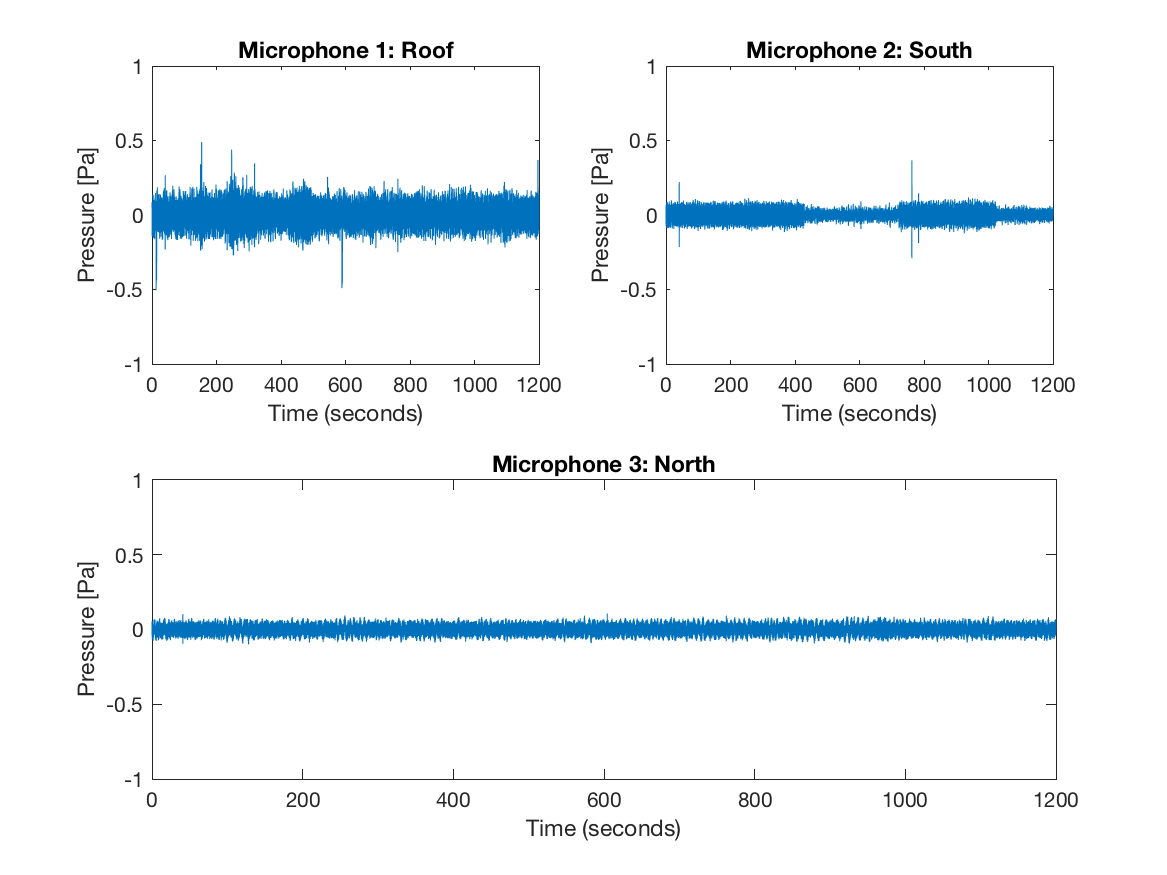
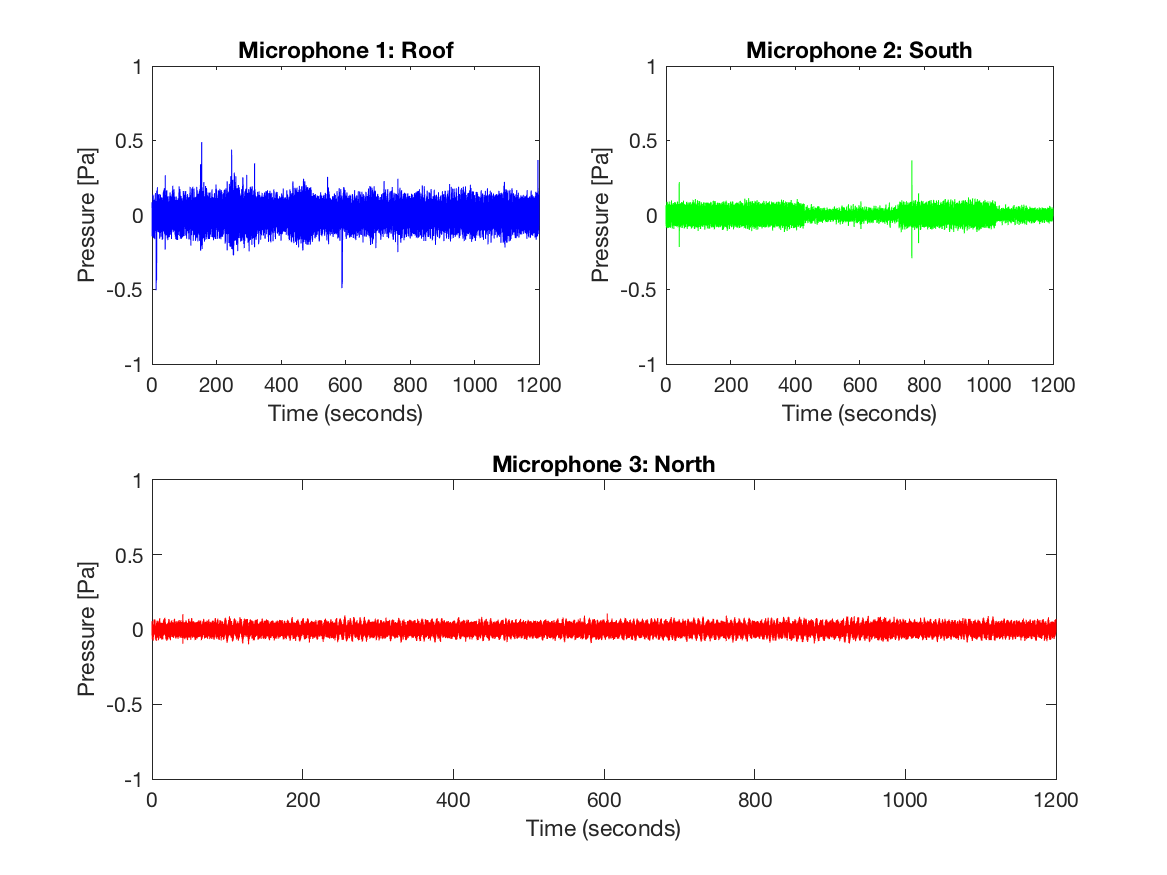
Make the raw data plots the same colors as spectra

Changed region(s): [[0.1234, 0.7097, 0.9254, 0.7406], [0.1234, 0.1851, 0.4627, 0.3086], [0.5553, 0.216, 0.8946, 0.2777]]

diff --git a/Code/PlottingClass.m b/Code/PlottingClass.m
@@ -135,21 +135,21 @@ classdef PlottingClass
         set(l, 'Visible', 'off');
 
         subplot(2,2,1);
-        plot(time,obj.R1)
+        plot(time,obj.R1, '-b')
         title('Microphone 1: Roof')
         ylim([-1 1])
         xlabel('Time (seconds)')
         ylabel('Pressure [Pa]')
 
         subplot(2,2,2);
-        plot(time,obj.R2)
+        plot(time,obj.R2, '-g')
         title('Microphone 2: South')
         ylim([-1 1])
         xlabel('Time (seconds)')
         ylabel('Pressure [Pa]')
 
         subplot(2,2,[3,4]);
-        plot(time,obj.R3)
+        plot(time,obj.R3, '-r')
         title('Microphone 3: North')
         ylim([-1 1])
         xlabel('Time (seconds)')
